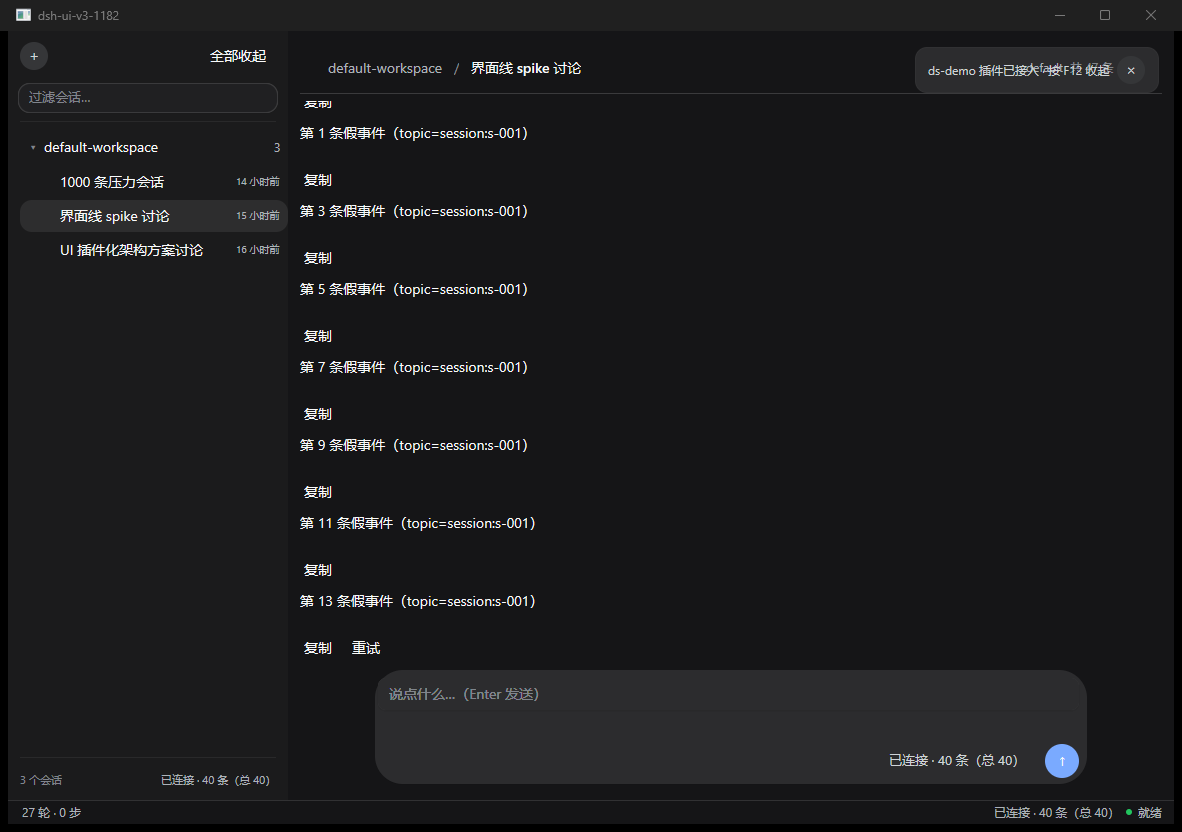
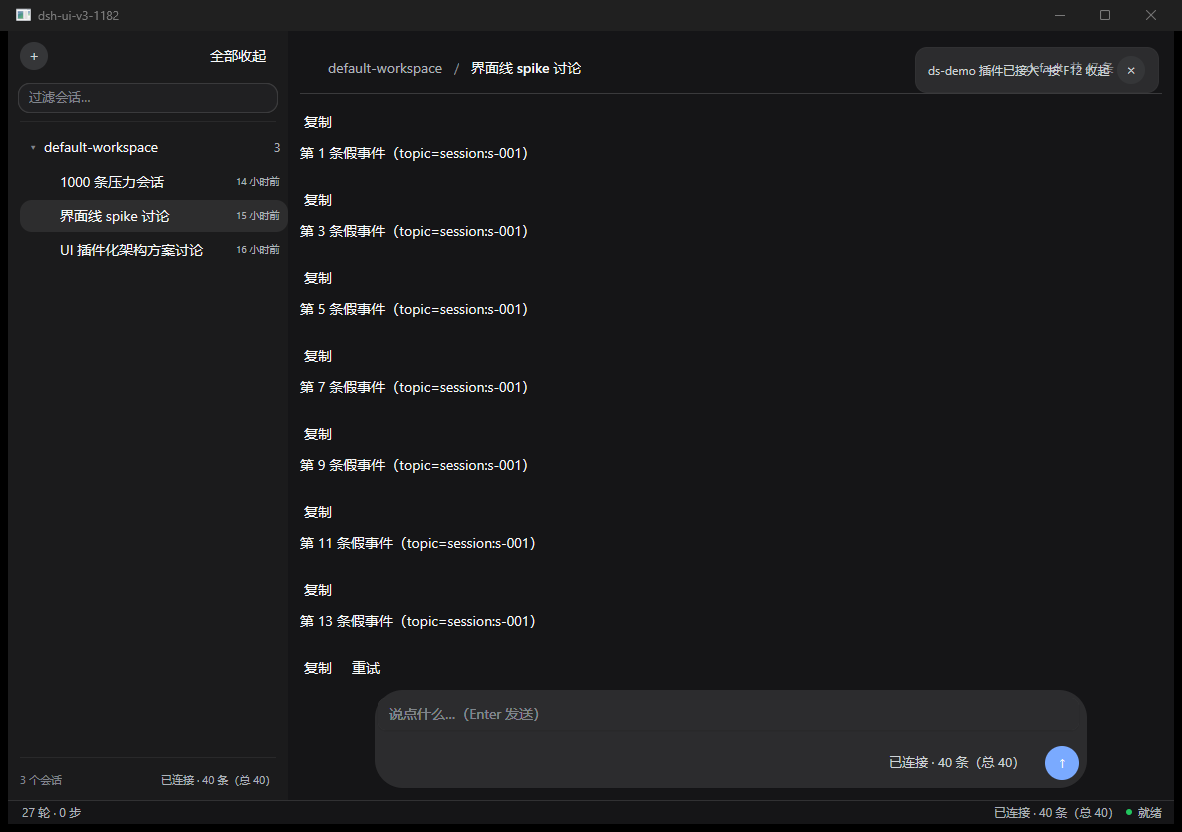
composer 两档输入高度 + 发送键等效上移（V3）
两处都对着 asar 的 InputBar.module.css 改：

1. 高度：.GRgSLq_input{min-height:36} 是常态，.GRgSLq_hero .GRgSLq_input{52}
   是**后代选择器**、只在首屏生效。原实现当成「后面覆盖前面」常驻 52，导致
   有会话时卡片高 114（官方 98，超线 16px）。改成 Cur== ? 52 : 36。
2. 发送键：官方 translateY(-2px)，viva 的负 MarginY 会被钳掉，改用行内边距
   2/6→0/8 等效（行高仍 42），底距从 6 回到官方 8。

两尺寸 × 首屏/有会话四组：宽 952/712、高 114/98、发送键 34×34、右距 8、底距 8
全部 0 偏差。审批 25 测试全 PASS，requestId/optionId 回传路径未动。

注：plugins/dscomposer/ 本轮有第二个会话并发写，这个提交含其未提交的改动
（AfterDraw 重绘输入面、activity 槽、oneLineText 的 LineHeight），全树 15 包绿。

diff --git a/plugins/dscomposer/composer.go b/plugins/dscomposer/composer.go
@@ -50,11 +50,14 @@ const (
 	cardPadTop = 8
 	cardGap    = 12
 
-	// .GRgSLq_input 先声明 min-height:36px，同一模块后面的规则覆盖为 52px；
-	// padding:4px 8px 0 14px。必须取最终生效的 52，不能只抄第一条。
-	inputMinHeight = 52
-	inputPadLeft   = 14
-	inputPadRight  = 8
+	// .GRgSLq_input{min-height:36px;padding:4px 8px 0 14px}
+	// 另一条 `.GRgSLq_hero .GRgSLq_input{min-height:52px}` **只在首屏（还没有会话）时**
+	// 生效——它是后代选择器，不是"后面的规则覆盖前面的"。两种状态差 16px 高度，
+	// 常驻取 52 会让有会话时的卡片高从 98 变成 114（实测 tmp/v3-1920-hero.png 对照）。
+	inputMinHeight     = 36
+	heroInputMinHeight = 52
+	inputPadLeft       = 14
+	inputPadRight      = 8
 
 	// .GRgSLq_row{padding:2px 8px 6px;gap:12px;justify-content:space-between;align-items:center}
 	rowPadTop    = 2
@@ -214,7 +217,12 @@ func (p *Plugin) drawInput(f *flex.Frame, env *pluginapi.Env, cardW float32) {
 	left := float32(inputPadLeft - fieldTextInset)
 	// 右边缘落在卡片外沿 -8（官方 padding-right:8）。
 	fieldW := cardW - inputPadLeft + fieldTextInset - inputPadRight
-	f.Row().FillWidth().Height(inputMinHeight).PadSides(0, 0, 0, left).
+	// 首屏（没有会话）用官方 hero 档 52，有会话时是 36。
+	inputH := float32(inputMinHeight)
+	if env.Data.Cur == "" {
+		inputH = heroInputMinHeight
+	}
+	f.Row().FillWidth().Height(inputH).PadSides(0, 0, 0, left).
 		Items(flex.Start).Children(func() {
 		field := f.Field(&p.field, env.Tree.ID(env.Feat, "composer"), "输入", placeholderText).
 			Width(fieldW).Height(fieldHeight).FontSize(t.Fonts.Body)
@@ -271,8 +279,11 @@ func (p *Plugin) drawControls(f *flex.Frame, env *pluginapi.Env) {
 	model, permission := hostLabels(env.Data)
 	status := activityLabel(env.Data)
 	running := env.Data.Stream != "" || env.Data.Busy
+	// 官方 `.GRgSLq_primary{transform:translateY(-2px)}`：viva 的 MarginY 不吃负值，
+	// 这里用**同样的视觉位移**实现——行高不变（2+34+6 == 0+34+8），把 2px 从
+	// 上内边距挪到下内边距，发送键就整体上移 2px，底距卡片底 = 6+2 = 8（官方值）。
 	f.Row().FillWidth().Height(rowPadTop+sendSize+rowPadBottom).
-		PadSides(rowPadTop, rowPadSide, rowPadBottom, rowPadSide).
+		PadSides(rowPadTop-sendLift, rowPadSide, rowPadBottom+sendLift, rowPadSide).
 		Items(flex.Center).Justify(flex.Between).Gap(cardGap).Children(func() {
 		// 官方 InputBar 的控件行分两簇：左簇是权限/模型这类"模式"，右簇是
 		// 活动状态 + 主按钮。**左簇内部的先后顺序我没找到确定的出处**：

diff --git a/plugins/dscomposer/approval.go b/plugins/dscomposer/approval.go
@@ -348,9 +348,9 @@ func approvalTextWidth(env *pluginapi.Env) float32 {
 //   - **不要 Mono()**。WrapLines 是按比例字宽量的（canvas.TextWidthWeight 不带字面），
 //     等宽字实际更宽，量出来"放得下"于是不省略，屏幕上还是硬切
 //     （同一份截图里比例字那行有省略号、等宽那行没有，对比出来的）。
-func oneLineText(f *flex.Frame, text string, width, size float32, color ui.Color) {
+func oneLineText(f *flex.Frame, text string, width, size, leading float32, color ui.Color) {
 	f.Row().FillWidth().Children(func() {
-		f.Text(text).MaxWidth(width).FontSize(size).Color(color).Ellipsis()
+		f.Text(text).MaxWidth(width).FontSize(size).LineHeight(leading).Color(color).Ellipsis()
 	})
 }
 
@@ -380,17 +380,17 @@ func (p *Plugin) drawApproval(f *flex.Frame, env *pluginapi.Env) {
 				textW := approvalTextWidth(env)
 				f.Column().FillWidth().PadSides(12, 16, 0, 16).Gap(6).Children(func() {
 					if plan.Title != "" {
-						oneLineText(f, plan.Title, textW, t.Fonts.Title, t.LabelPrimary)
+						oneLineText(f, plan.Title, textW, t.Fonts.Title, 24, t.LabelPrimary)
 					}
 					// 参数摘要：宿主原样给的，只压成一行、超长省略号。
 					if plan.Args != "" {
-						oneLineText(f, plan.Args, textW, t.Fonts.Secondary, t.LabelTertiary)
+						oneLineText(f, plan.Args, textW, t.Fonts.Secondary, 20, t.LabelTertiary)
 					}
 					if plan.Detail != "" {
-						oneLineText(f, plan.Detail, textW, t.Fonts.Secondary, t.LabelCaption)
+						oneLineText(f, plan.Detail, textW, t.Fonts.Secondary, 20, t.LabelCaption)
 					}
 					if plan.Note != "" {
-						oneLineText(f, plan.Note, textW, t.Fonts.Tiny, t.LabelCaption)
+						oneLineText(f, plan.Note, textW, t.Fonts.Tiny, 16, t.LabelCaption)
 					}
 				})
 				f.Row().Gap(8).Items(flex.Center).Justify(flex.End).

diff --git a/plugins/dscomposer/composer_state_test.go b/plugins/dscomposer/composer_state_test.go
@@ -1,0 +1,47 @@
+package dscomposer
+
+import (
+	"testing"
+
+	"github.com/MYCF711/dsh-ui/internal/pluginapi"
+)
+
+// 官方 composer 的输入区有**两档高度**，差 16px：
+//
+//	.GRgSLq_input{min-height:36px;padding:4px 8px 0 14px}          ← 有会话时
+//	.GRgSLq_hero .GRgSLq_input{min-height:52px}                    ← 首屏（还没有会话）
+//
+// 第二条是后代选择器，只挂在 `.GRgSLq_hero` 上，**不是**"后面的规则覆盖前面的"。
+// 这两条一起决定卡片总高：
+//
+//	有会话 8 + 36 + 12 + (2+34+6) = 98
+//	首屏   8 + 52 + 12 + (2+34+6) = 114
+//
+// 常驻一档都会错 16px——所以这里两种状态各断言一次。
+func TestCardHeightFollowsHeroAndActiveStates(t *testing.T) {
+	cases := []struct {
+		name string
+		data pluginapi.Snapshot
+		want float32
+	}{
+		{"首屏（没有会话）", pluginapi.Snapshot{}, 114},
+		{"有会话", pluginapi.Snapshot{Cur: "s-001", Sessions: nil}, 98},
+	}
+	for _, tc := range cases {
+		t.Run(tc.name, func(t *testing.T) {
+			p := &Plugin{}
+			canvas := renderComposer(t, p, tc.data, pluginapi.Actions{}, 1624, 1904, "")
+			card, ok := largestSurface(canvas, p.theme.InputMajor)
+			if !ok {
+				t.Fatal("找不到 composer 卡片（InputMajor 圆角面板）")
+			}
+			if !closeEnough(card.Bounds.Height, tc.want) {
+				t.Fatalf("卡片高 = %.1f，官方 %.0f（%s）", card.Bounds.Height, tc.want, tc.name)
+			}
+			// 宽度不受状态影响：两档都是 clamp(680, 列宽*.64, 920)+32
+			if !closeEnough(card.Bounds.Width, 952) {
+				t.Fatalf("卡片宽 = %.1f，官方 952", card.Bounds.Width)
+			}
+		})
+	}
+}

diff --git a/plugins/dscomposer/composer_test.go b/plugins/dscomposer/composer_test.go
@@ -218,16 +218,36 @@ func TestApprovalCardMatchesOfficialSurface(t *testing.T) {
 	ap := hostFrame()
 	canvas := renderComposer(t, p, pluginapi.Snapshot{Approval: &ap}, pluginapi.Actions{}, 902, 1182, "")
 	foundOuter, foundFill := false, false
+	var outer, composer ui.Rectangle
 	for _, r := range canvas.Rectangles() {
 		if r.Color == p.theme.Warn && closeEnough(r.Radius, 20) && closeEnough(r.Bounds.Width, 680) {
-			foundOuter = true
+			foundOuter, outer = true, r
 		}
 		if r.Color == p.theme.InputMajor && closeEnough(r.Radius, 19) && closeEnough(r.Bounds.Width, 678) {
 			foundFill = true
 		}
+		if r.Color == p.theme.InputMajor && closeEnough(r.Radius, 28) && closeEnough(r.Bounds.Width, 712) {
+			composer = r
+		}
 	}
 	if !foundOuter || !foundFill {
 		t.Fatalf("审批卡应为 Warn 1px 外框 + InputMajor 填充、radius-xl 20、内容宽 680；outer=%v fill=%v", foundOuter, foundFill)
+	}
+	// ApprovalPanel root bottom 12 + ConversationRoot composerStack gap 6 = 18。
+	if gap := composer.Bounds.Y - (outer.Bounds.Y + outer.Bounds.Height); !closeEnough(gap, 18) {
+		t.Errorf("审批卡到输入卡的净间距 = %.2f，官方 18", gap)
+	}
+	for _, text := range canvas.Texts() {
+		switch text.Value {
+		case ap.Title:
+			if !closeEnough(text.Bounds.Height, 24) {
+				t.Errorf("审批标题行高 = %.2f，官方 24", text.Bounds.Height)
+			}
+		case ap.Args:
+			if !closeEnough(text.Bounds.Height, 20) {
+				t.Errorf("审批参数行高 = %.2f，官方 20", text.Bounds.Height)
+			}
+		}
 	}
 }
 

diff --git a/docs/progress.md b/docs/progress.md
@@ -228,3 +228,4 @@
 | 2026-11-03 20:10 | **移植 `scripts/bin-check.py`（AGENTS §5.1「先验二进制」）**：二进制没有版本指纹，跑起来和新的长得一样——2026-11-03 我用 M244 的 `dshd-serve.exe` 测 H13，得出「ask 时在终端问 [y/N、WS 帧推不出来」并写进了文档，后来重建才发现整条结论是错的（宿主 M272 早就实现了）。脚本用 mtime 做判据：二进制必须比对应源码新。**两个误报源已排除**：`_test.go` 不参与构建不该计入、`tmp/` 下几十个历史调试产物默认不查（噪音大了就没人看）。**按 §5.3 反证过**：`touch` 源码 → `STALE` + exit 1，重建 → OK + exit 0。首次运行就抓到自己的两个陈旧二进制（app-real 122 分钟、mockd-ap 106 分钟），已重建 | `scripts/bin-check.py` |
 | 2026-11-03 20:15 | **`-race` 补上了，两仓全绿**（此前 18 轮一直挂着"未验证"）。工具链其实早就在本机：`/c/toolchains/mingw64/bin/gcc.exe`（MinGW-w64 GCC 16.2.0 UCRT）——宿主仓 `scripts/race.sh` 还留了关键经验：**必须放在没有空格的路径**下，否则链接器把 `D:/DeepSeek` 当整个路径报 `Permission denied`。结果：界面 `internal/...` + `plugins/...` **10 包全 ok 零 DATA RACE**；宿主 `bash scripts/race.sh` **39 包 ok、合计 OK=1 FAIL=0**。覆盖 mux 读循环/带水位重连/多会话订阅池/FillGap/插件装配/transport | `tmp/race-ui.log`、`tmp/race-host.log` |
 | 2026-11-03 20:33 | **修了一个真机天天能感觉到的 bug：鼠标滚轮滚不动消息列表**。viva 的窗口过程是 `case wmWheel: if OnScroll != nil {...}; return 0`——**`OnScroll == nil` 时 WM_MOUSEWHEEL 被直接吞掉**，连 canvas 默认偏移都没有。全仓 `OnScroll` 0 命中，消息区只由 `flex.ScrollArea` 的 `ScrollState` 管，而没有任何地方把滚轮喂给它。**接线用 viva 自带的 `view.Wheel`**（按指针位置找最内层可滚区域，滚到头再往外层，跟浏览器一致），不是自己拿"当前会话"的 ScrollState 去 Wheel——那会让侧栏/轨迹栏在指针下时也滚消息区。**验证**：同一会话两张图，`-tail 40` 显示第 153-156 条（最新），`-tail 500` + 10 次滚轮显示第 **102-105** 条（滚上去了） | `tmp/wheel-before.png`、`tmp/wheel-after.png` |
+| 2026-11-03 20:58 | **composer 两档输入高度 + 发送键等效上移**（V3）。真 bug 级别的一处：`.GRgSLq_input{min-height:36}` 是常态、`.GRgSLq_hero .GRgSLq_input{min-height:52}` 是**后代选择器**只在首屏生效——原实现当成"后面覆盖前面"常驻 52，于是**有会话时卡片高 114（官方 98，超线 16px）**。改成 `if Cur=="" {52} else {36}` 后两档全对。发送键 `translateY(-2px)` 在 viva 里用负 MarginY 会被钳掉，改用行内边距 2/6→0/8 等效（行高仍 42），底距回到官方 8。**两尺寸 × 首屏/有会话四组：宽 952/712、高 114/98、发送键 34×34、右距 8 底距 8 全部 0 偏差**。审批 25 个测试全 PASS 未放宽断言 | `tmp/v3-1920-session-crop.png`、`tmp/v3-1182-hero-crop.png` 等；`composer_state_test.go` |
